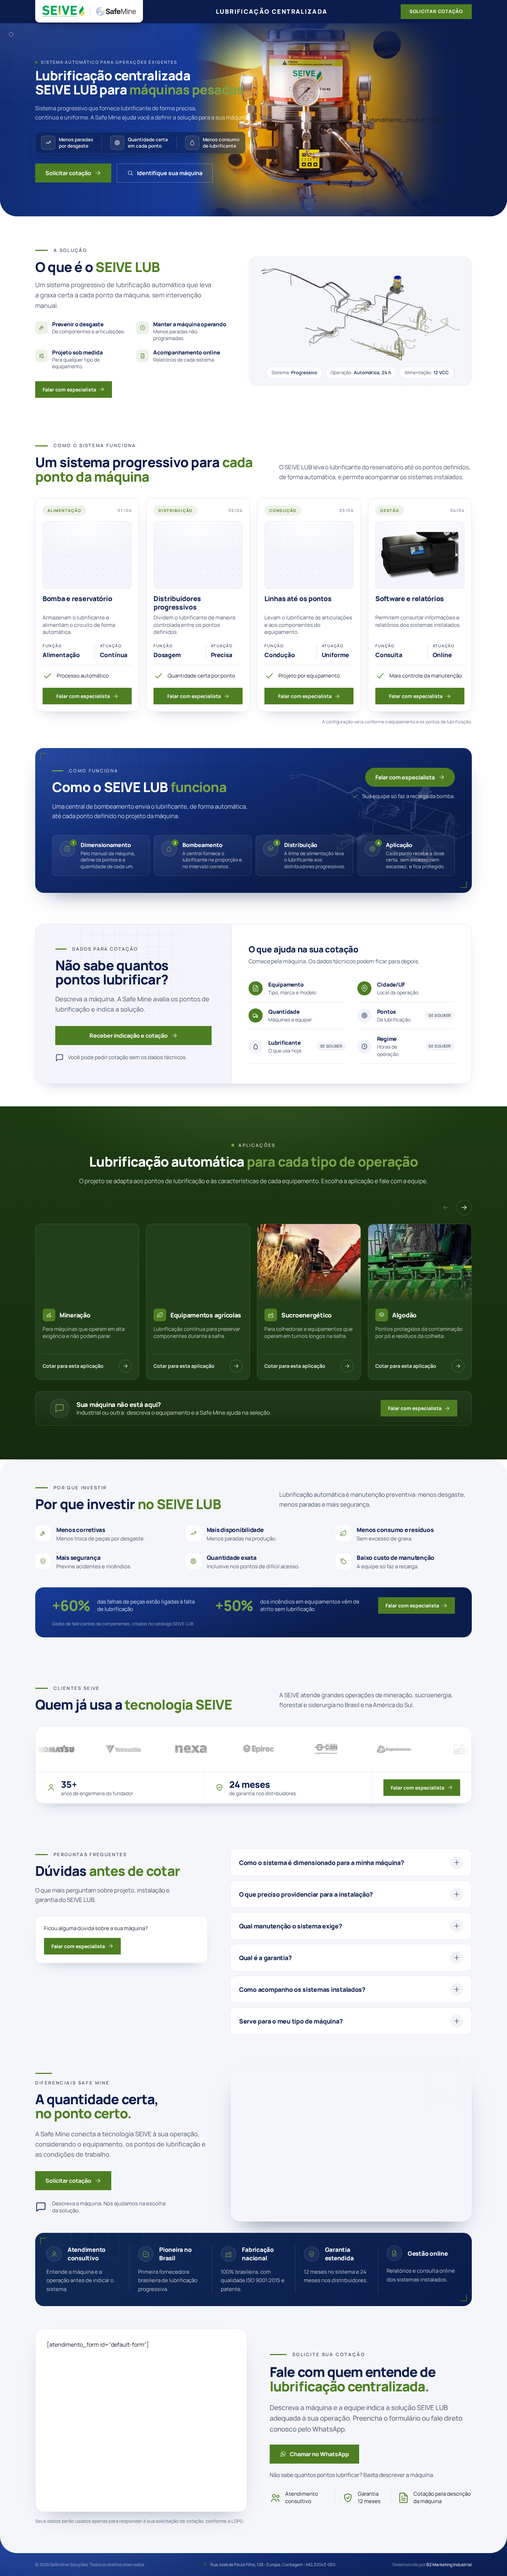
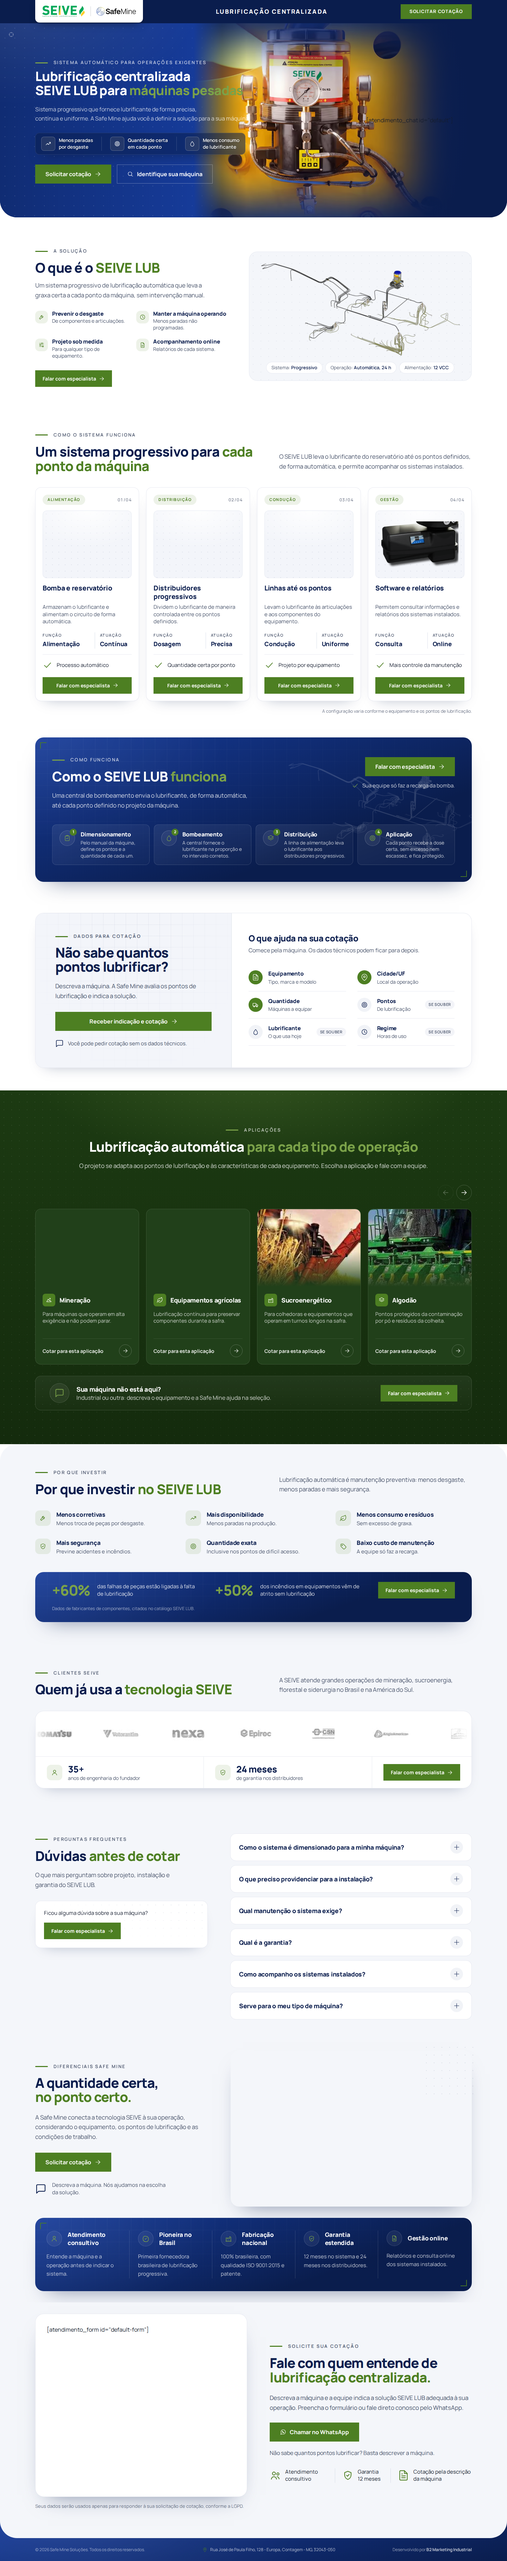
style: padroniza cores, rótulos, sombras e selos em toda a página
- Tokens de cor para a placa clara e o verde escuro da faixa de aplicações;
  nenhuma cor fixa nos componentes.
- Utilitários navy-panel, panel-shadow e icon-chip; os três painéis navy
  passam a usar o mesmo gradiente.
- Eyebrow.astro vira a fonte única do rótulo acima dos títulos (9 versões
  à mão substituídas), com variante clara para fundos escuros.
- Parágrafos de abertura em 16/17px, raios e sombras unificados, CTA do
  "Como funciona" com cantos retos como os demais.

diff --git a/src/styles/global.css b/src/styles/global.css
@@ -14,8 +14,16 @@
   --color-primary-dark-900: #0a1d4d;
   --color-accent-orange: #4d7f22;
   --color-accent-orange-dark: #3f6a1b;
-  /* Verde original da marca: só para destaque de texto sobre fundo navy (hero). */
+  /* Verde original da marca: destaque de texto e ícones sobre fundos escuros (navy e verde). */
   --color-accent-orange-light: #7ba249;
+
+  /* Verde escuro da marca: faixa de aplicações (fundo e cards). */
+  --color-brand-green-900: #142b0d;
+  --color-brand-green-800: #1c3a12;
+  --color-brand-green-700: #21401a;
+
+  /* Placa clara de apoio (atrás de fotos, esquemas e do lado de texto de painéis). */
+  --color-surface: #f3f5fa;
   --color-neutral-light: #ffffff;
   --color-neutral-gray-100: #f4f6fa;
   --color-neutral-gray-200: #a0a0a0;
@@ -163,13 +171,37 @@
 
 /* Placa clara onde as fotos de produto se apoiam. */
 @utility surface-plate {
-  background-color: #f3f5fa;
+  background-color: var(--color-surface);
   background-image:
     radial-gradient(120% 90% at 50% 0%, rgb(255 255 255 / 0.9) 0%, transparent 60%),
     radial-gradient(circle, rgb(10 29 77 / 0.1) 1px, transparent 1.2px);
   background-size:
     100% 100%,
     18px 18px;
+}
+
+/* Painel navy das seções do meio (como funciona, números, diferenciais): um gradiente só. */
+@utility navy-panel {
+  background-color: var(--color-primary-dark-900);
+  background-image:
+    radial-gradient(900px 480px at 0% 0%, rgb(255 255 255 / 0.07) 0%, transparent 60%),
+    linear-gradient(160deg, var(--color-primary-dark-800) 0%, var(--color-primary-dark-900) 70%);
+}
+
+/* Sombra de painéis e fotos grandes. */
+@utility panel-shadow {
+  box-shadow: 0 30px 60px -36px rgb(10 29 77 / 0.55);
+}
+
+/* Selo de ícone das listas sobre fundo claro. */
+@utility icon-chip {
+  display: flex;
+  flex-shrink: 0;
+  align-items: center;
+  justify-content: center;
+  border-radius: 0.75rem;
+  background-color: rgb(77 127 34 / 0.1);
+  color: var(--color-accent-orange);
 }
 
 /* Sombra padrão dos cards claros: deslocada e difusa, nunca um halo. */

diff --git a/src/data/sections/identificar.ts b/src/data/sections/identificar.ts
@@ -39,7 +39,7 @@ export const supportPanel = {
     { icon: 'truck', label: 'Quantidade', hint: 'Máquinas a equipar' },
     { icon: 'target', label: 'Pontos', hint: 'De lubrificação' },
     { icon: 'droplet', label: 'Lubrificante', hint: 'O que usa hoje' },
-    { icon: 'clock', label: 'Regime', hint: 'Horas de operação' },
+    { icon: 'clock', label: 'Regime', hint: 'Horas de uso' },
   ],
 } as const satisfies {
   eyebrow: string

diff --git a/docs/BRIEFING.md b/docs/BRIEFING.md
@@ -107,3 +107,10 @@ A pedido do usuário, a página ganhou uma introdução logo abaixo do hero: o q
 ## Referências da COAIR aplicadas em "Como funciona" e "Aplicações" (02/11/2026)
 
 A pedido do usuário, com capturas da LP da COAIR como referência: o "Como funciona" virou um painel navy (cantos técnicos, malha de blueprint, esquemático em marca d'água, CTA em pílula à direita e as 4 etapas em pílulas numa linha). Com isso ele passou a ser o bloco navy da fase de apoio, e o "Dados para cotação" ficou com a placa clara. As "Aplicações" viraram uma faixa de largura total em verde escuro da marca (a "cor diferente" pedida; não é navy, então os dois blocos navy do padrão continuam sendo processo e diferenciais), com cabeçalho centrado e cards cuja foto se dissolve no corpo escuro, com ícone, título e seta. A faixa anula o padding do ritmo `centered-lead` com margens negativas e repõe o respiro por dentro.
+
+## Padronização de cores e estilos (03/11/2026)
+
+- Tokens novos em `global.css`: `--color-surface` (placa clara), `--color-brand-green-700/800/900` (faixa de aplicações). Nenhuma cor fixa sobra nos componentes, fora transparências de branco e navy.
+- Utilitários: `navy-panel` (um único gradiente para Como funciona, faixa de números e Diferenciais), `panel-shadow` (painéis e fotos grandes), `card-shadow` (cards), `icon-chip` (selo de ícone das listas sobre fundo claro).
+- `Eyebrow.astro` é a fonte única do rótulo acima dos títulos: traço de 36px, 12/13px, tracking 0.18em; `tone="light"` sobre fundos escuros. Substituiu as 9 versões escritas à mão.
+- Destaque do título: `accent-orange` em fundo claro, `accent-orange-light` em fundo escuro. Parágrafo de abertura das seções em 16/17px. Raio de 1.5rem em painéis e fotos grandes, 1rem em cards. Todos os CTAs com cantos retos.
